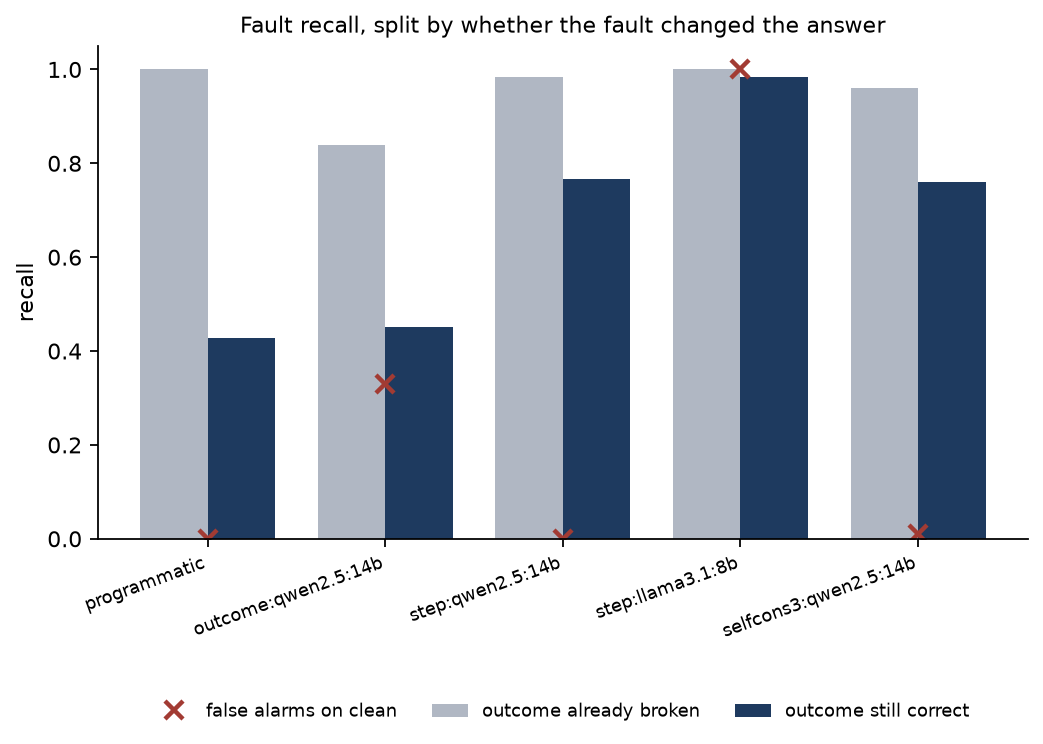
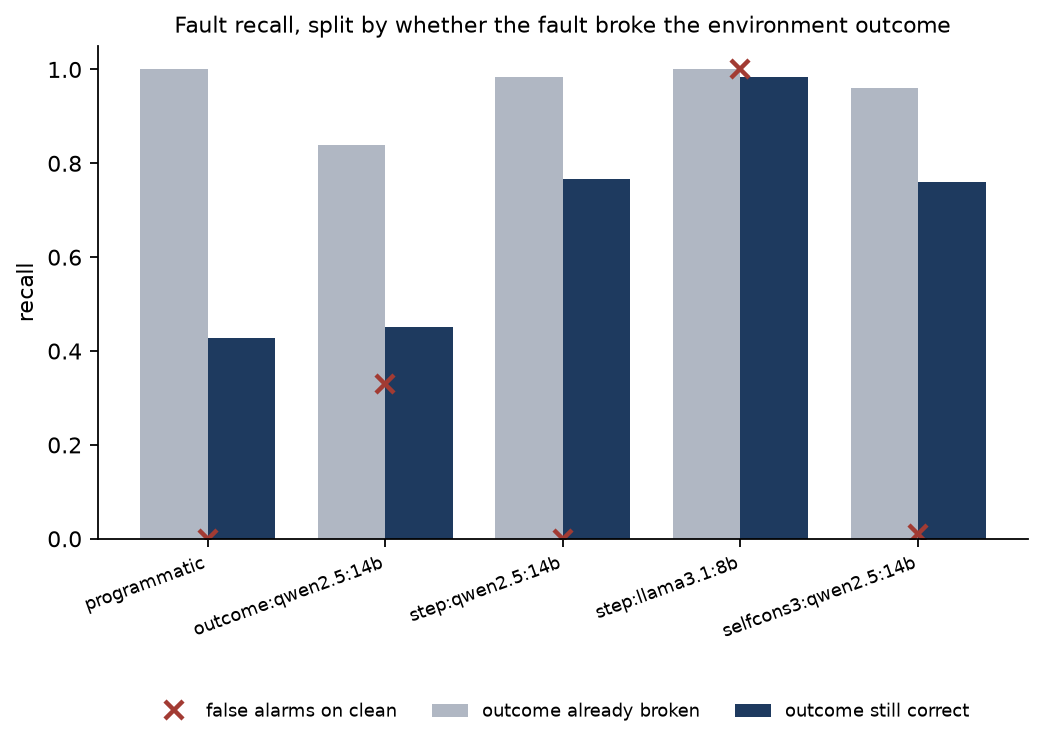
Call the end state the environment outcome

Changed region(s): [[0.1534, 0.0, 0.9204, 0.0618]]

diff --git a/src/trajectory_judge/report.py b/src/trajectory_judge/report.py
@@ -75,7 +75,8 @@ def summary_table(scores: list[Scores]) -> str:
         f"| `{s.judge_id}` | {s.clean_n} | {s.silent_n} | {s.loud_n} |\n" for s in scores
     )
     footer += (
-        "\nA *silent* fault left the customer-visible outcome correct; a *loud* one did not.\n"
+        "\nA *silent* fault left the environment outcome (the refund or escalation) correct; "
+        "a *loud* one did not. Reply text is not part of the outcome.\n"
         "\n`n/a` under step localisation means the judge has no step field to fill: the "
         "outcome-only judge never sees the steps, so it is not asked to name one.\n"
         "\n**The `programmatic` row's ECE is not a measurement.** The rule engine has no opinion "
@@ -142,7 +143,7 @@ def agent_table(episodes: list[Trajectory]) -> str:
     out = f"Episodes played: **{total}**\n\n| Observation | Count | Share |\n|---|---:|---:|\n"
     for label, value in (
         ("flagged by the rule checker or wrong outcome", flagged),
-        ("wrong customer-visible outcome", wrong_outcome),
+        ("wrong environment outcome", wrong_outcome),
         ("faulty but outcome still correct", silent),
     ):
         out += f"| {label} | {value} | {_fmt(value / total, 2)} |\n"
@@ -205,7 +206,9 @@ def _figures(
     ax.set_xticklabels(labels, rotation=20, ha="right", fontsize=8)
     ax.set_ylabel("recall")
     ax.set_ylim(0, 1.05)
-    ax.set_title("Fault recall, split by whether the fault changed the answer", fontsize=10)
+    ax.set_title(
+        "Fault recall, split by whether the fault broke the environment outcome", fontsize=10
+    )
     # Legend under the axes: every bar reaches the top of the plot, so there is no room inside.
     ax.legend(frameon=False, fontsize=8, ncol=3, loc="upper center", bbox_to_anchor=(0.5, -0.30))
     ax.spines[["top", "right"]].set_visible(False)

diff --git a/src/trajectory_judge/trace.py b/src/trajectory_judge/trace.py
@@ -61,8 +61,10 @@ class Step(BaseModel):
 class Label(BaseModel):
     """Ground truth. Known by construction, never inferred.
 
-    ``outcome_correct`` is the field the whole project turns on: a faulty trajectory whose
-    final answer is still right is a *silent failure*, invisible to outcome-only evaluation.
+    ``outcome_correct`` records whether the episode ends in the refund or escalation the
+    instance expects; reply text is not part of it. A faulty trajectory with a correct end state
+    is a *silent* failure. Whether an outcome-only judge can see a fault is a separate question:
+    it depends on whether the fault changed the final answer.
     """
 
     faulty: bool
@@ -72,7 +74,7 @@ class Label(BaseModel):
 
     @property
     def silent(self) -> bool:
-        """A fault that survives outcome-only evaluation."""
+        """A fault whose environment outcome is still correct."""
         return self.faulty and self.outcome_correct
 
 

diff --git a/src/trajectory_judge/metrics.py b/src/trajectory_judge/metrics.py
@@ -34,10 +34,11 @@ class Scores:
     precision: float = 0.0
     recall: float = 0.0
     f1: float = 0.0
-    #: Recall restricted to faults that left the customer-visible outcome correct.
+    #: Recall restricted to faults that left the environment outcome correct (reply text is not
+    #: part of it).
     silent_recall: float = 0.0
     silent_n: int = 0
-    #: Recall on faults that also broke the outcome, i.e. the easy half.
+    #: Recall on faults that broke the environment outcome.
     loud_recall: float = 0.0
     loud_n: int = 0
     #: Share of clean trajectories wrongly flagged.

diff --git a/tests/test_mutate.py b/tests/test_mutate.py
@@ -30,8 +30,8 @@ EXPECTED_CHECKER_COVERAGE: dict[FailureType, tuple[float, float]] = {
     FailureType.UNSUPPORTED_CLAIM: (0.0, 0.0),
 }
 
-#: Faults that leave the customer-visible outcome correct, and are therefore invisible to
-#: outcome-only evaluation.
+#: Faults that leave the environment outcome correct. Whether an outcome-only judge can see
+#: them is separate: unsupported_claim changes the final answer.
 ALWAYS_SILENT = (
     FailureType.WRONG_TOOL,
     FailureType.HALLUCINATED_ARGUMENT,

diff --git a/results/tables/summary.md b/results/tables/summary.md
@@ -18,7 +18,7 @@ Strata each judge actually saw:
 | `step:llama3.1:8b` | 100 | 175 | 125 |
 | `selfcons3:qwen2.5:14b` | 100 | 175 | 125 |
 
-A *silent* fault left the customer-visible outcome correct; a *loud* one did not.
+A *silent* fault left the environment outcome (the refund or escalation) correct; a *loud* one did not. Reply text is not part of the outcome.
 
 `n/a` under step localisation means the judge has no step field to fill: the outcome-only judge never sees the steps, so it is not asked to name one.
 

diff --git a/results/tables/agent_runs.md b/results/tables/agent_runs.md
@@ -5,7 +5,7 @@ Episodes played: **60**
 | Observation | Count | Share |
 |---|---:|---:|
 | flagged by the rule checker or wrong outcome | 13 | 0.22 |
-| wrong customer-visible outcome | 10 | 0.17 |
+| wrong environment outcome | 10 | 0.17 |
 | faulty but outcome still correct | 3 | 0.05 |
 
 | Rule-visible failure type | Count |
